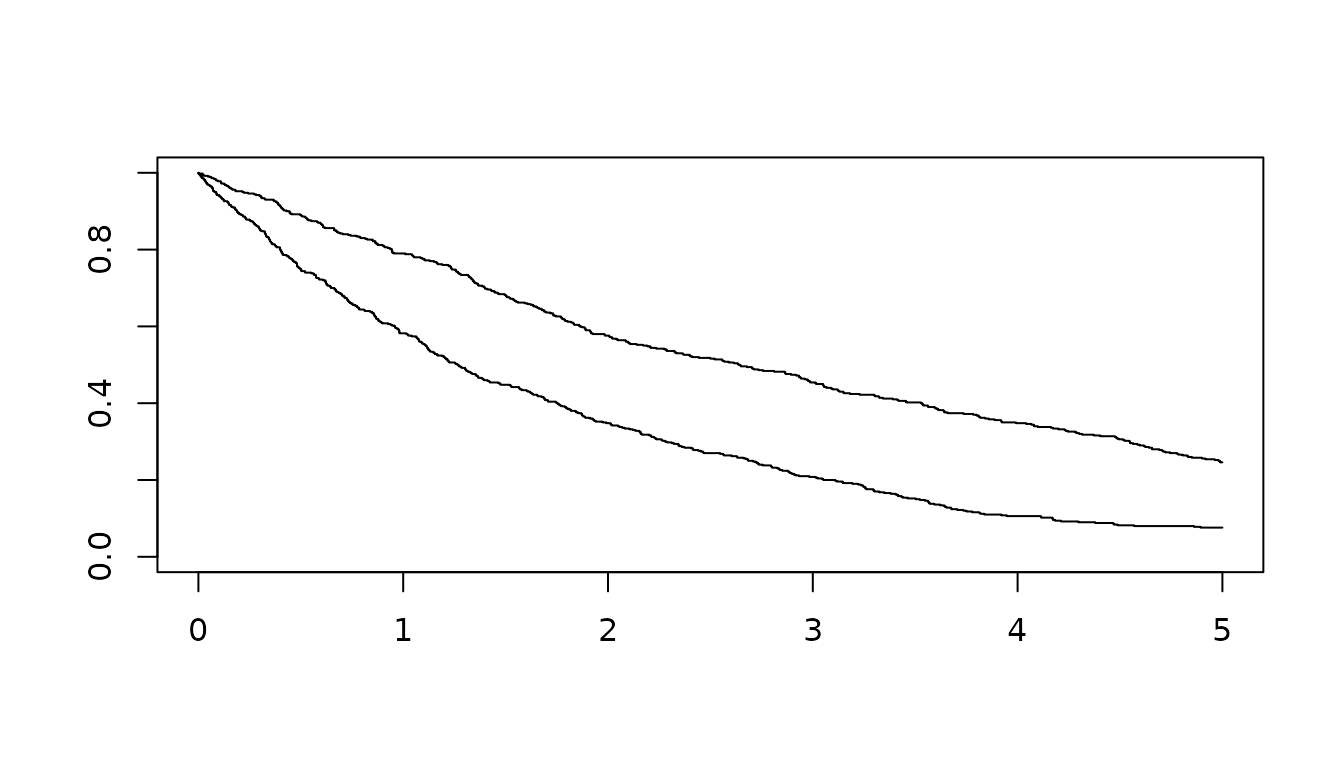
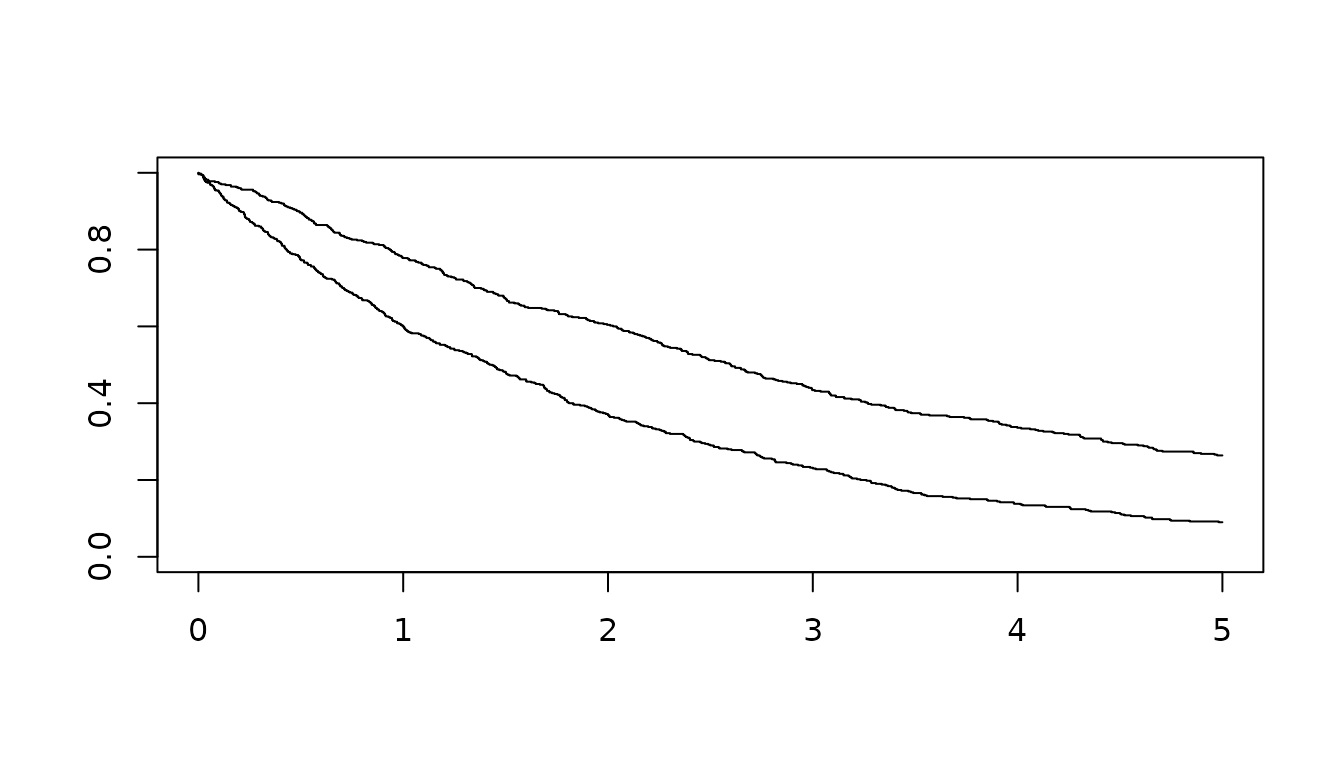
Deploying to gh-pages from @ johnaponte/survobj@cf5d20ee7b5e72f115aa7811c863bfed9c8c42d4 🚀

diff --git a/reference/SURVIVAL.html b/reference/SURVIVAL.html
@@ -191,16 +191,16 @@ cumulative hazard, inverse of the cumulative hazard, a random draw or a plot</p>
 <span class="r-in"><span></span></span>
 <span class="r-in"><span><span class="co"># Draw one random survival time from the distribution</span></span></span>
 <span class="r-in"><span><span class="fu">rsurv</span><span class="op">(</span>SURVIVAL <span class="op">=</span> <span class="va">obj</span>, n <span class="op">=</span> <span class="fl">1</span><span class="op">)</span></span></span>
-<span class="r-out co"><span class="r-pr">#&gt;</span> [1] 17.8957</span>
+<span class="r-out co"><span class="r-pr">#&gt;</span> [1] 6.351133</span>
 <span class="r-in"><span></span></span>
 <span class="r-in"><span><span class="co"># Draw one random survival time from the distribution under Proportional</span></span></span>
 <span class="r-in"><span><span class="co"># hazard, Accelerated time failure or Accelerated hazard.</span></span></span>
 <span class="r-in"><span><span class="fu">rsurvhr</span><span class="op">(</span>SURVIVAL <span class="op">=</span> <span class="va">obj</span>, hr <span class="op">=</span> <span class="fl">0.5</span><span class="op">)</span></span></span>
-<span class="r-out co"><span class="r-pr">#&gt;</span> [1] 9.43806</span>
+<span class="r-out co"><span class="r-pr">#&gt;</span> [1] 7.444489</span>
 <span class="r-in"><span><span class="fu">rsurvaft</span><span class="op">(</span>SURVIVAL <span class="op">=</span> <span class="va">obj</span>, aft <span class="op">=</span> <span class="fl">2</span><span class="op">)</span></span></span>
-<span class="r-out co"><span class="r-pr">#&gt;</span> [1] 0.8585976</span>
+<span class="r-out co"><span class="r-pr">#&gt;</span> [1] 0.3413804</span>
 <span class="r-in"><span><span class="fu">rsurvah</span><span class="op">(</span>SURVIVAL <span class="op">=</span> <span class="va">obj</span>, aft <span class="op">=</span> <span class="fl">2</span>, hr <span class="op">=</span> <span class="fl">0.5</span><span class="op">)</span></span></span>
-<span class="r-out co"><span class="r-pr">#&gt;</span> [1] 5.775259</span>
+<span class="r-out co"><span class="r-pr">#&gt;</span> [1] 1.344166</span>
 <span class="r-in"><span></span></span>
 <span class="r-in"><span><span class="co"># Plot the survival functions</span></span></span>
 <span class="r-in"><span><span class="fu">plot_survival</span><span class="op">(</span>SURVIVAL <span class="op">=</span> <span class="va">obj</span>, timeto <span class="op">=</span> <span class="fl">2</span>, main <span class="op">=</span> <span class="st">"Example of Weibull distribution"</span> <span class="op">)</span></span></span>

diff --git a/reference/s_factory.html b/reference/s_factory.html
@@ -124,11 +124,11 @@ calculate:</p><ul><li><p>survival time function: <code><a href="SURVIVAL.html">s
 <span class="r-in"><span></span></span>
 <span class="r-in"><span><span class="co"># Draw one random survival time from the distribution</span></span></span>
 <span class="r-in"><span><span class="fu"><a href="SURVIVAL.html">rsurv</a></span><span class="op">(</span>SURVIVAL <span class="op">=</span> <span class="va">obj</span>, n <span class="op">=</span> <span class="fl">1</span><span class="op">)</span></span></span>
-<span class="r-out co"><span class="r-pr">#&gt;</span> [1] 0.2938233</span>
+<span class="r-out co"><span class="r-pr">#&gt;</span> [1] 1.265062</span>
 <span class="r-in"><span></span></span>
 <span class="r-in"><span><span class="co"># Draw one random survival time from the distribution, with hazard ratio 0.5</span></span></span>
 <span class="r-in"><span><span class="fu"><a href="SURVIVAL.html">rsurvhr</a></span><span class="op">(</span>SURVIVAL <span class="op">=</span> <span class="va">obj</span>, hr <span class="op">=</span> <span class="fl">0.5</span><span class="op">)</span></span></span>
-<span class="r-out co"><span class="r-pr">#&gt;</span> [1] 0.6162715</span>
+<span class="r-out co"><span class="r-pr">#&gt;</span> [1] 0.05033737</span>
 <span class="r-in"><span></span></span>
 <span class="r-in"><span><span class="co"># Plot the survival functions</span></span></span>
 <span class="r-in"><span><span class="fu"><a href="https://rdrr.io/r/graphics/plot.default.html" class="external-link">plot</a></span><span class="op">(</span><span class="va">obj</span><span class="op">)</span></span></span>
